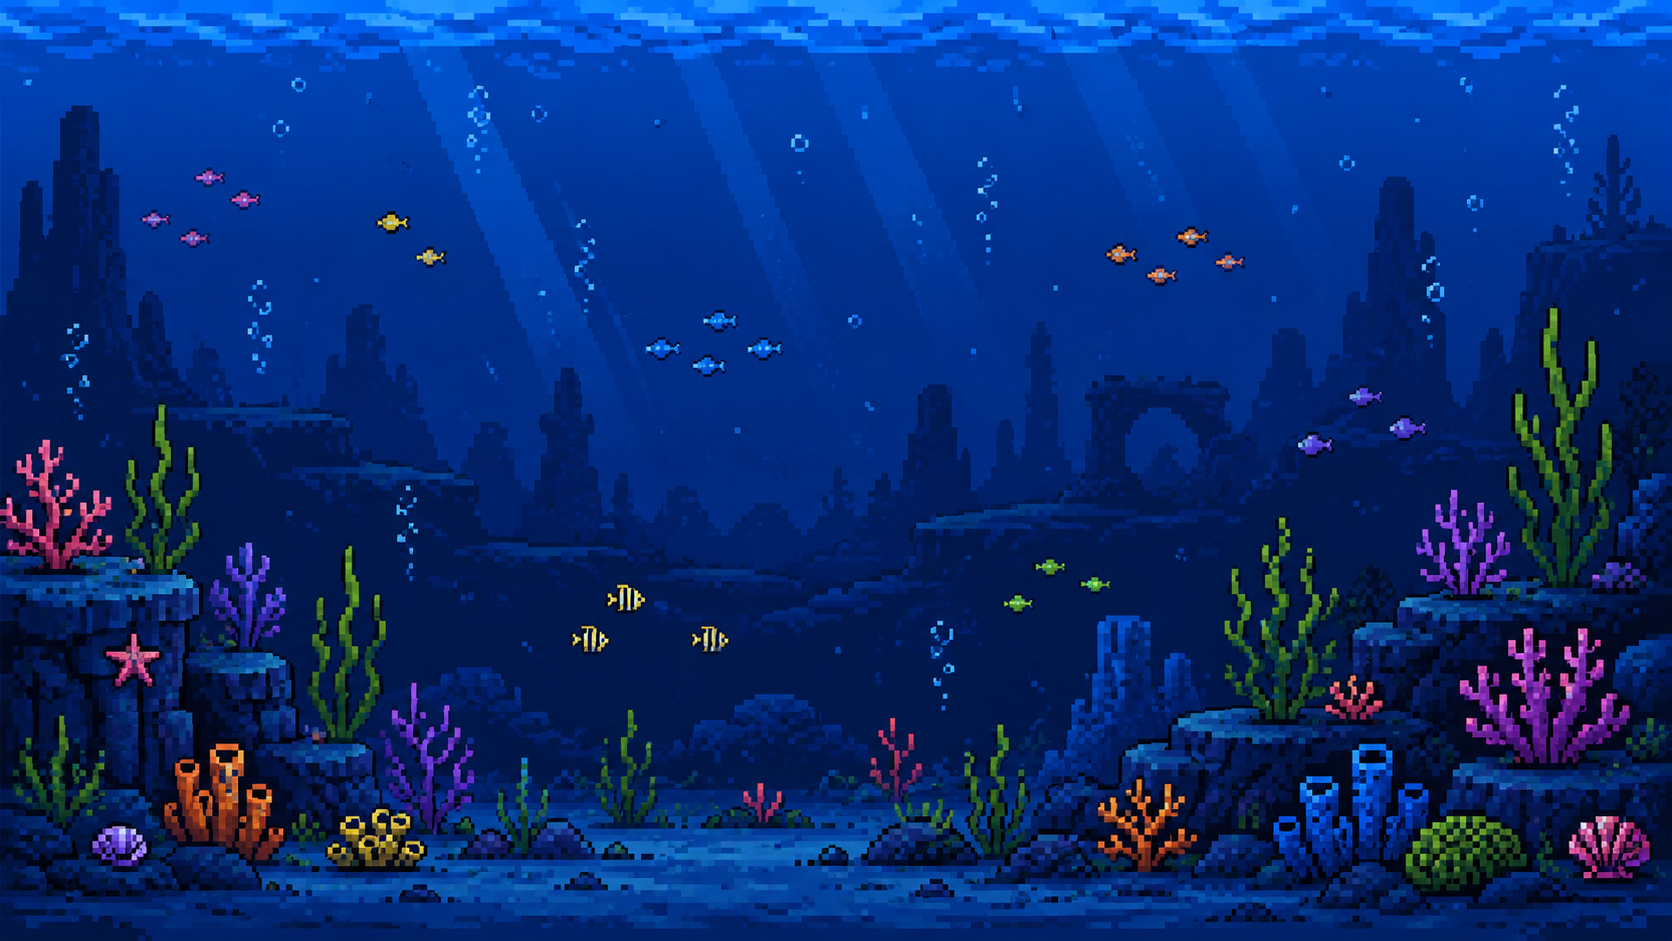
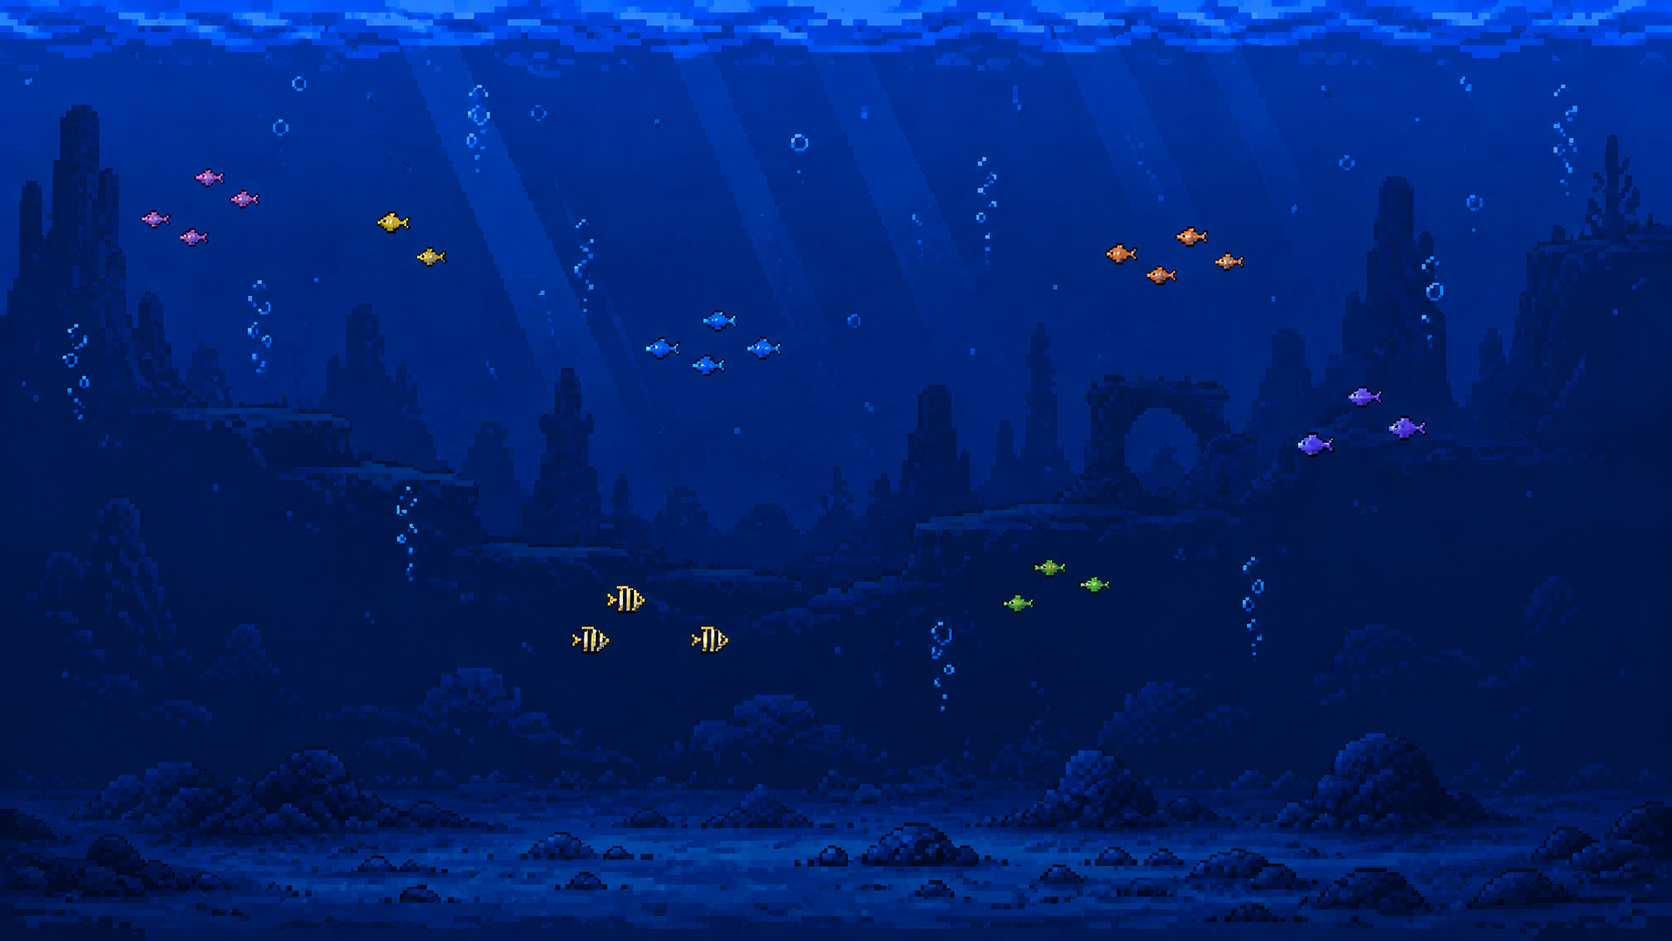
gameOver.ogg se reproduce en cualquier derrota. victory.ogg se reproduce al ganar. shotSound.ogg suena cada vez que el submarino dispara. ocean.png ahora es el fondo, recortado proporcionalmente sin deformarse.

diff --git a/include/core/Juego.hpp b/include/core/Juego.hpp
@@ -61,6 +61,15 @@ public:
         tiempoMuerteSubmarino = 0.0f;
         submarinoEnMuerte = false;
         musicaPrincipal.stop();
+        if (sonidoGameOver) {
+            sonidoGameOver->stop();
+        }
+        if (sonidoVictoria) {
+            sonidoVictoria->stop();
+        }
+        if (sonidoDisparo) {
+            sonidoDisparo->stop();
+        }
         torpedos.clear();
         proyectilesEnemigos.clear();
         recolectables.clear();
@@ -167,7 +176,7 @@ public:
 
         if (rondas[rondaActual]->EsRondaJefe() && enemigos.empty() && efectosMuerte.empty()) {
             estadoJuego.Asignar(EstadoJuego::Tipo::Victoria);
-            musicaPrincipal.stop();
+            ReproducirSonidoFinal(true);
         }
         return estadoJuego;
     }
@@ -180,15 +189,15 @@ public:
         if (submarino.ObtenerBarraOxigeno().EstaAgotada()) {
             IniciarMuerteSubmarino();
             estadoJuego.Asignar(EstadoJuego::Tipo::DerrotaOxigeno);
-            musicaPrincipal.stop();
+            ReproducirSonidoFinal(false);
         } else if (arrecife.Destruido()) {
             estadoJuego.Asignar(EstadoJuego::Tipo::DerrotaArrecife);
-            musicaPrincipal.stop();
+            ReproducirSonidoFinal(false);
         } else {
             for (const auto& enemigo : enemigos) {
                 if (enemigo->LlegoAlFondo(LimiteInvasionY)) {
                     estadoJuego.Asignar(EstadoJuego::Tipo::DerrotaInvasion);
-                    musicaPrincipal.stop();
+                    ReproducirSonidoFinal(false);
                     break;
                 }
             }
@@ -226,11 +235,15 @@ private:
 
         texturaBarreraCargada = texturaBarrera.loadFromFile("assets/stage/wall.png");
         texturaArrecifeCargada = texturaArrecife.loadFromFile("assets/stage/reef.png");
+        texturaFondoCargada = texturaFondo.loadFromFile("assets/stage/ocean.png");
         if (texturaBarreraCargada) {
             texturaBarrera.setSmooth(false);
         }
         if (texturaArrecifeCargada) {
             texturaArrecife.setSmooth(false);
+        }
+        if (texturaFondoCargada) {
+            texturaFondo.setSmooth(false);
         }
 
         texturasEnemigosCargadas =
@@ -277,6 +290,19 @@ private:
         if (musicaPrincipalCargada) {
             musicaPrincipal.setLooping(true);
             musicaPrincipal.setVolume(35.0f);
+        }
+
+        if (bufferGameOver.loadFromFile("assets/music/gameOver.ogg")) {
+            sonidoGameOver.emplace(bufferGameOver);
+            sonidoGameOver->setVolume(70.0f);
+        }
+        if (bufferVictoria.loadFromFile("assets/music/victory.ogg")) {
+            sonidoVictoria.emplace(bufferVictoria);
+            sonidoVictoria->setVolume(70.0f);
+        }
+        if (bufferDisparo.loadFromFile("assets/music/shotSound.ogg")) {
+            sonidoDisparo.emplace(bufferDisparo);
+            sonidoDisparo->setVolume(45.0f);
         }
     }
 
@@ -402,6 +428,10 @@ private:
         }
         if (sf::Keyboard::isKeyPressed(sf::Keyboard::Key::Space)) {
             auto nuevosTorpedos = submarino.DispararTorpedos();
+            if (!nuevosTorpedos.empty() && sonidoDisparo) {
+                sonidoDisparo->stop();
+                sonidoDisparo->play();
+            }
             for (auto& torpedo : nuevosTorpedos) {
                 torpedos.push_back(torpedo);
             }
@@ -775,21 +805,55 @@ private:
         return distribucion(generador);
     }
 
+    void ReproducirSonidoFinal(bool victoria) {
+        musicaPrincipal.stop();
+        if (victoria) {
+            if (sonidoGameOver) {
+                sonidoGameOver->stop();
+            }
+            if (sonidoVictoria) {
+                sonidoVictoria->play();
+            }
+        } else {
+            if (sonidoVictoria) {
+                sonidoVictoria->stop();
+            }
+            if (sonidoGameOver) {
+                sonidoGameOver->play();
+            }
+        }
+    }
+
     void DibujarFondo() {
-        sf::RectangleShape zonaJuego({static_cast<float>(AnchoVentana), static_cast<float>(AltoVentana)});
-        zonaJuego.setPosition({0.0f, 0.0f});
-        zonaJuego.setFillColor(sf::Color(7, 38, 78));
-        ventana.draw(zonaJuego);
+        if (texturaFondoCargada) {
+            const sf::Vector2u tamanoTextura = texturaFondo.getSize();
+            const float proporcionJuego = static_cast<float>(AnchoVentana) / static_cast<float>(AltoVentana);
+            const int anchoRecorte = std::min(
+                static_cast<int>(tamanoTextura.x),
+                static_cast<int>(static_cast<float>(tamanoTextura.y) * proporcionJuego)
+            );
+            const int inicioX = (static_cast<int>(tamanoTextura.x) - anchoRecorte) / 2;
+            const sf::IntRect recorte(
+                {inicioX, 0},
+                {anchoRecorte, static_cast<int>(tamanoTextura.y)}
+            );
+            sf::Sprite fondo(texturaFondo, recorte);
+            fondo.setScale({
+                static_cast<float>(AnchoVentana) / static_cast<float>(anchoRecorte),
+                static_cast<float>(AltoVentana) / static_cast<float>(tamanoTextura.y)
+            });
+            ventana.draw(fondo);
+        } else {
+            sf::RectangleShape zonaJuego({static_cast<float>(AnchoVentana), static_cast<float>(AltoVentana)});
+            zonaJuego.setPosition({0.0f, 0.0f});
+            zonaJuego.setFillColor(sf::Color(7, 38, 78));
+            ventana.draw(zonaJuego);
+        }
 
         sf::RectangleShape hud({static_cast<float>(AnchoVentana), 76.0f});
         hud.setPosition({0.0f, 0.0f});
-        hud.setFillColor(sf::Color(10, 24, 42));
+        hud.setFillColor(sf::Color(10, 24, 42, 225));
         ventana.draw(hud);
-
-        sf::RectangleShape fondo({static_cast<float>(AnchoVentana), 28.0f});
-        fondo.setPosition({0.0f, 672.0f});
-        fondo.setFillColor(sf::Color(32, 80, 72));
-        ventana.draw(fondo);
 
         for (int i = 0; i < 12; ++i) {
             sf::CircleShape burbuja(2.0f + static_cast<float>(i % 4));
@@ -911,6 +975,7 @@ private:
     sf::Font fuente;
     sf::Texture texturaBarrera;
     sf::Texture texturaArrecife;
+    sf::Texture texturaFondo;
     sf::Texture texturaCangrejo;
     sf::Texture texturaCangrejoMuerto;
     sf::Texture texturaCalamar;
@@ -926,9 +991,16 @@ private:
     sf::Texture texturaVelocidad;
     sf::Texture texturaOxigeno;
     sf::Music musicaPrincipal;
+    sf::SoundBuffer bufferGameOver;
+    sf::SoundBuffer bufferVictoria;
+    sf::SoundBuffer bufferDisparo;
+    std::optional<sf::Sound> sonidoGameOver;
+    std::optional<sf::Sound> sonidoVictoria;
+    std::optional<sf::Sound> sonidoDisparo;
     bool fuenteCargada{false};
     bool texturaBarreraCargada{false};
     bool texturaArrecifeCargada{false};
+    bool texturaFondoCargada{false};
     bool texturasEnemigosCargadas{false};
     bool texturasHeroeCargadas{false};
     bool texturasPowerUpsCargadas{false};

diff --git a/README.md b/README.md
@@ -47,6 +47,8 @@ El ejecutable principal se genera como `bin/OceanDefenders.exe`.
 - Visuales: primitivas SFML e imagenes PNG para las barreras.
 - Fuente principal: Pixel Digivolve, cargada desde `assets/fonts/PIXEL LETTER`.
 - Musica principal: `assets/music/principal.ogg`, reproducida en bucle durante la partida.
+- Fondo principal: `assets/stage/ocean.png`, recortado proporcionalmente sin deformarse.
+- Efectos de audio: `shotSound.ogg`, `gameOver.ogg` y `victory.ogg`.
 
 ## Creditos
 